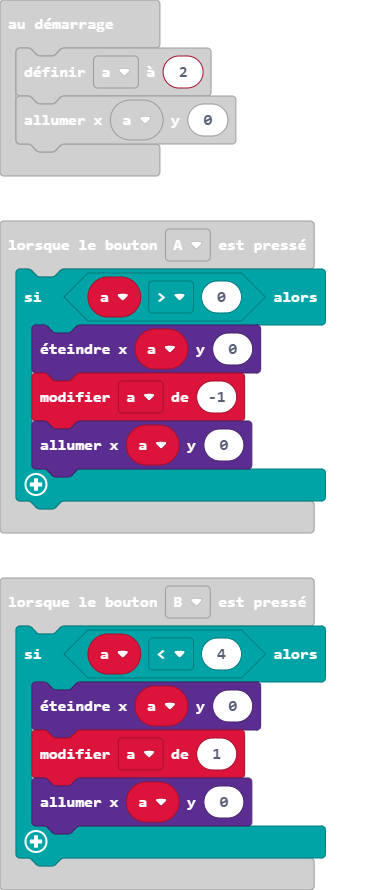
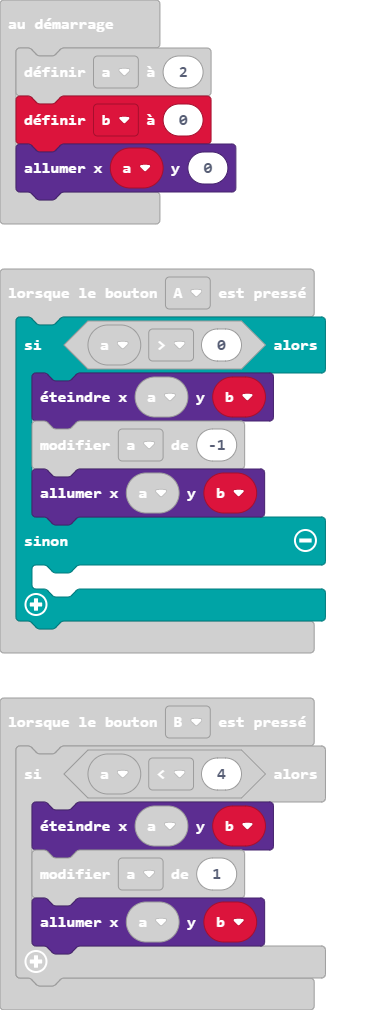
Mise à jour main.blocks, main.ts

diff --git a/main.ts b/main.ts
@@ -1,19 +1,23 @@
 input.onButtonPressed(Button.A, function () {
     if (a > 0) {
-        led.unplot(a, 0)
+        led.unplot(a, b)
         a += -1
-        led.plot(a, 0)
+        led.plot(a, b)
+    } else {
+    	
     }
 })
 input.onButtonPressed(Button.B, function () {
     if (a < 4) {
-        led.unplot(a, 0)
+        led.unplot(a, b)
         a += 1
-        led.plot(a, 0)
+        led.plot(a, b)
     }
 })
+let b = 0
 let a = 0
 a = 2
+b = 0
 led.plot(a, 0)
 basic.forever(function () {
 	
